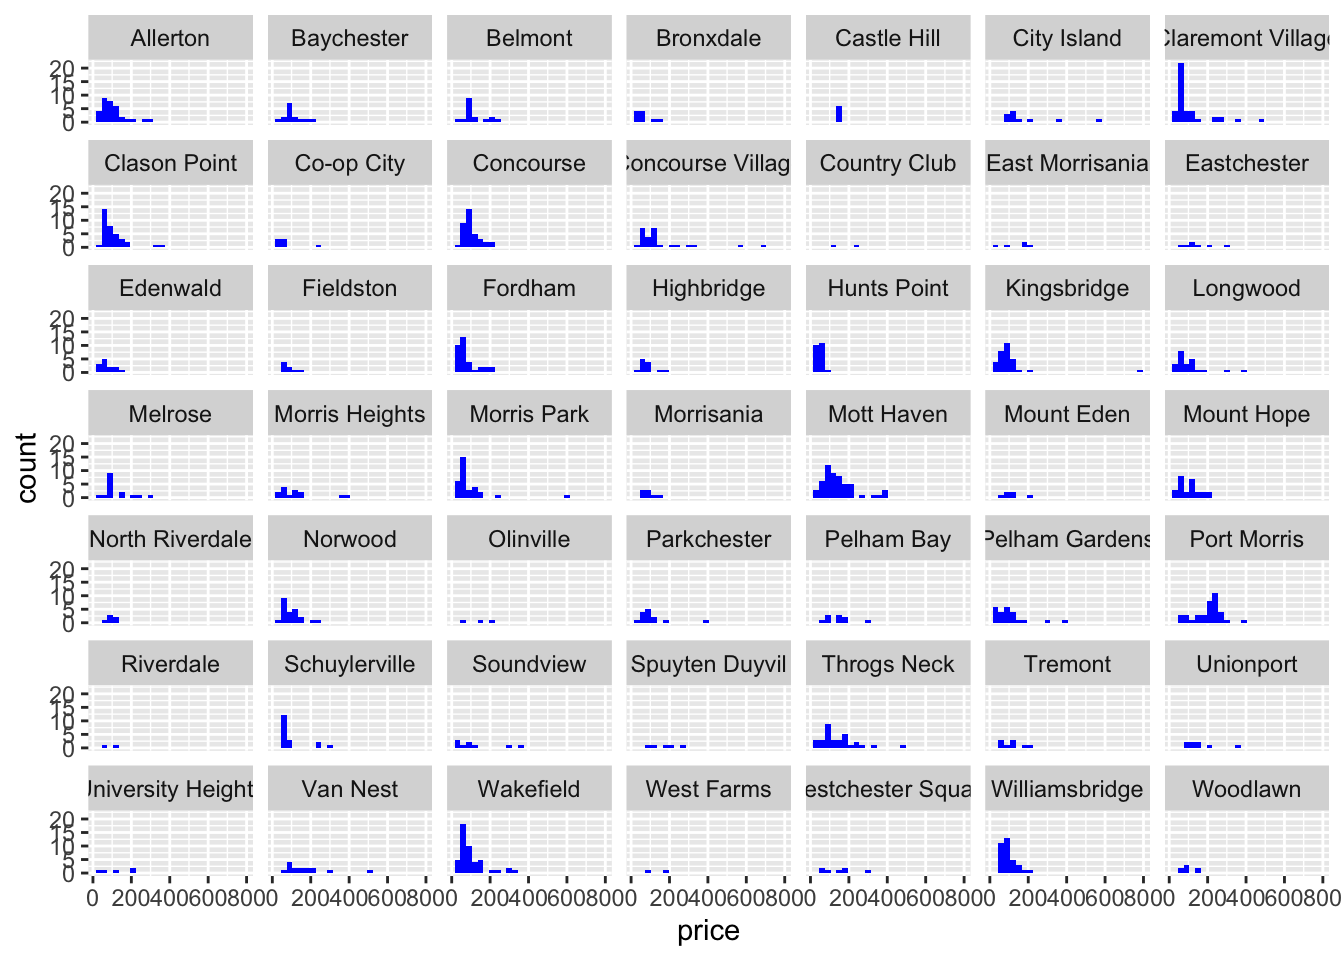
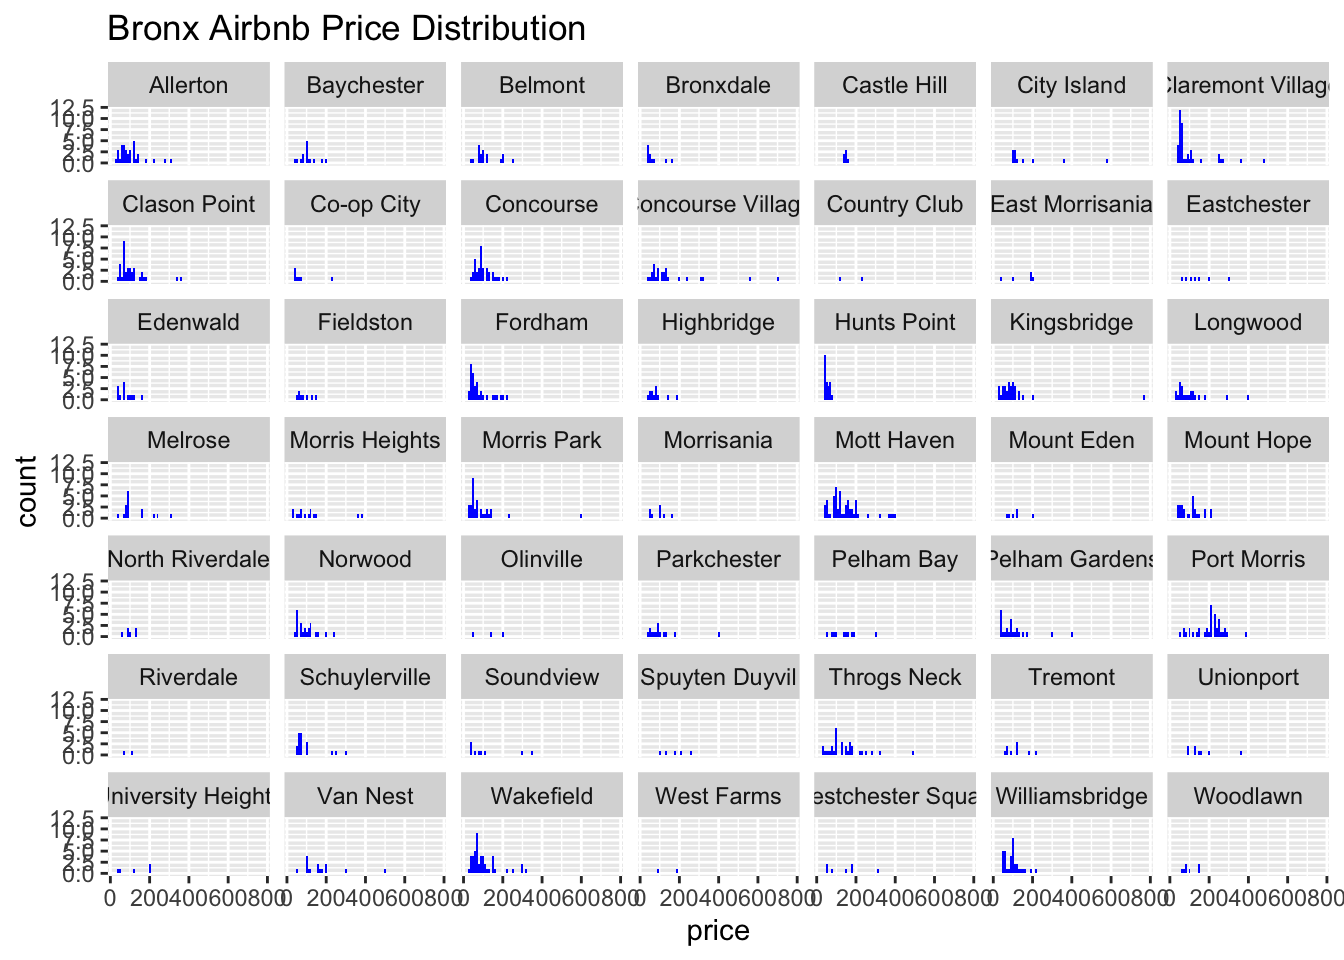
final redner

diff --git a/Lab 1 .html b/Lab 1 .html
@@ -191,11 +191,13 @@ $ listing_url          &lt;chr&gt; "https://www.airbnb.com/rooms/2595", "https:/
 </div>
 <p>You can find descriptions of each of the variables in the help file for the dataset, which you can find online at the inside airbnb <a href="https://docs.google.com/spreadsheets/d/1iWCNJcSutYqpULSQHlNyGInUvHg2BoUGoNRIGa6Szc4/edit?usp=sharing">data dictionary</a></p>
 <p><strong>Problem 3.</strong> Pick one of the five boroughs of NYC (Manhattan, Queens, Brooklyn, the Bronx, or Staten Island), and create a faceted histogram where each facet represents a neighborhood in your chosen borough and displays the distribution of Airbnb prices in that neighborhood. Think critically about whether it makes more sense to stack the facets on top of each other in a column, lay them out in a row, or wrap them around. Along with your visualization, include your reasoning for the layout you chose for your facets.</p>
+<p>I choose the histogram because of how it can visualize distribution in data, It makes it easier to observe the data regarding price is distributed across the Bronx.</p>
 <div class="cell">
 <div class="sourceCode cell-code" id="cb8"><pre class="sourceCode r code-with-copy"><code class="sourceCode r"><span id="cb8-1"><a href="#cb8-1" aria-hidden="true" tabindex="-1"></a>nycbnb <span class="sc">|&gt;</span>                   </span>
 <span id="cb8-2"><a href="#cb8-2" aria-hidden="true" tabindex="-1"></a>  <span class="fu">filter</span>(borough <span class="sc">==</span> <span class="st">"Bronx"</span>) <span class="sc">|&gt;</span>      </span>
 <span id="cb8-3"><a href="#cb8-3" aria-hidden="true" tabindex="-1"></a>  <span class="fu">ggplot</span>(nycbnb, <span class="at">mapping =</span> <span class="fu">aes</span>(<span class="at">x =</span> price)</span>
-<span id="cb8-4"><a href="#cb8-4" aria-hidden="true" tabindex="-1"></a>    )  <span class="sc">+</span> <span class="fu">facet_wrap</span>(<span class="sc">~</span>neighborhood) <span class="sc">+</span> <span class="fu">geom_histogram</span>(<span class="at">binwidth =</span> <span class="dv">30</span>, <span class="at">fill =</span> <span class="st">"blue"</span>)</span></code><button title="Copy to Clipboard" class="code-copy-button"><i class="bi"></i></button></pre></div>
+<span id="cb8-4"><a href="#cb8-4" aria-hidden="true" tabindex="-1"></a>    )  <span class="sc">+</span> <span class="fu">facet_wrap</span>(<span class="sc">~</span>neighborhood) <span class="sc">+</span> <span class="fu">geom_histogram</span>(<span class="at">binwidth =</span> <span class="dv">10</span>, <span class="at">fill =</span> <span class="st">"blue"</span>) <span class="sc">+</span> <span class="fu">labs</span>(</span>
+<span id="cb8-5"><a href="#cb8-5" aria-hidden="true" tabindex="-1"></a>    <span class="at">title =</span> <span class="st">"Bronx Airbnb Price Distribution"</span>)</span></code><button title="Copy to Clipboard" class="code-copy-button"><i class="bi"></i></button></pre></div>
 <div class="cell-output cell-output-stderr">
 <pre><code>Warning: Removed 359 rows containing non-finite outside the scale range
 (`stat_bin()`).</code></pre>
@@ -209,7 +211,47 @@ $ listing_url          &lt;chr&gt; "https://www.airbnb.com/rooms/2595", "https:/
 </div>
 </div>
 <p><strong>Problem 4.</strong> Use a single pipeline to identity the neighborhoods city-wide with the top five median listing prices that have a minimum of 50 listings. Then, in another pipeline filter the data for these five neighborhoods and make ridge plots of the distributions of listing prices in these five neighborhoods. In a third pipeline calculate the minimum, mean, median, standard deviation, IQR, and maximum listing price in each of these neighborhoods. Use the visualization and the summary statistics to describe the distribution of listing prices in the neighborhoods. (Your answer will include three pipelines, one of which ends in a visualization, and a narrative.)</p>
+<div class="cell">
+<div class="sourceCode cell-code" id="cb10"><pre class="sourceCode r code-with-copy"><code class="sourceCode r"><span id="cb10-1"><a href="#cb10-1" aria-hidden="true" tabindex="-1"></a>nycbnb <span class="sc">|&gt;</span></span>
+<span id="cb10-2"><a href="#cb10-2" aria-hidden="true" tabindex="-1"></a>  <span class="fu">group_by</span>(neighborhood) <span class="sc">|&gt;</span></span>
+<span id="cb10-3"><a href="#cb10-3" aria-hidden="true" tabindex="-1"></a>  <span class="fu">distinct</span>(neighborhood, price) <span class="sc">|&gt;</span></span>
+<span id="cb10-4"><a href="#cb10-4" aria-hidden="true" tabindex="-1"></a>  <span class="fu">summarise</span>(</span>
+<span id="cb10-5"><a href="#cb10-5" aria-hidden="true" tabindex="-1"></a>    <span class="at">topprice =</span> <span class="fu">mean</span>(price, <span class="at">na.rm =</span> <span class="cn">TRUE</span>)</span>
+<span id="cb10-6"><a href="#cb10-6" aria-hidden="true" tabindex="-1"></a>  )</span></code><button title="Copy to Clipboard" class="code-copy-button"><i class="bi"></i></button></pre></div>
+<div class="cell-output cell-output-stdout">
+<pre><code># A tibble: 225 × 2
+   neighborhood               topprice
+   &lt;chr&gt;                         &lt;dbl&gt;
+ 1 Allerton                       109.
+ 2 Arden Heights                  155.
+ 3 Arrochar                       165.
+ 4 Arverne                        243.
+ 5 Astoria                        160.
+ 6 Bath Beach                     163.
+ 7 Battery Park City              361.
+ 8 Bay Ridge                      138.
+ 9 Bay Terrace                    127 
+10 Bay Terrace, Staten Island     110 
+# ℹ 215 more rows</code></pre>
+</div>
+</div>
 <p><strong>Problem 5.</strong> Create a visualization that will help you compare the distribution of review scores (<code>review_scores_rating</code>) across neighborhoods. You get to decide what type of visualization to create and which neighborhoods are most interesting to you, and there is more than one correct answer! In your answer, include a brief interpretation of how Airbnb guests rate properties in general and how the neighborhoods compare to each other in terms of their ratings.</p>
+<div class="cell">
+<div class="sourceCode cell-code" id="cb12"><pre class="sourceCode r code-with-copy"><code class="sourceCode r"><span id="cb12-1"><a href="#cb12-1" aria-hidden="true" tabindex="-1"></a>nycbnb <span class="sc">|&gt;</span>                   </span>
+<span id="cb12-2"><a href="#cb12-2" aria-hidden="true" tabindex="-1"></a>  <span class="fu">ggplot</span>(nycbnb, <span class="at">mapping =</span> <span class="fu">aes</span>(<span class="at">x =</span> review_scores_rating)</span>
+<span id="cb12-3"><a href="#cb12-3" aria-hidden="true" tabindex="-1"></a>    )  <span class="sc">+</span> <span class="fu">facet_wrap</span>(<span class="sc">~</span>neighborhood) <span class="sc">+</span> <span class="fu">geom_histogram</span>(<span class="at">binwidth =</span> <span class="fl">0.5</span>, <span class="at">fill =</span> <span class="st">"blue"</span>) </span></code><button title="Copy to Clipboard" class="code-copy-button"><i class="bi"></i></button></pre></div>
+<div class="cell-output cell-output-stderr">
+<pre><code>Warning: Removed 11751 rows containing non-finite outside the scale range
+(`stat_bin()`).</code></pre>
+</div>
+<div class="cell-output-display">
+<div>
+<figure class="figure">
+<p><img src="Lab-1-_files/figure-html/unnamed-chunk-8-1.png" class="img-fluid figure-img" width="672"></p>
+</figure>
+</div>
+</div>
+</div>
 </section>
 
 </main>
